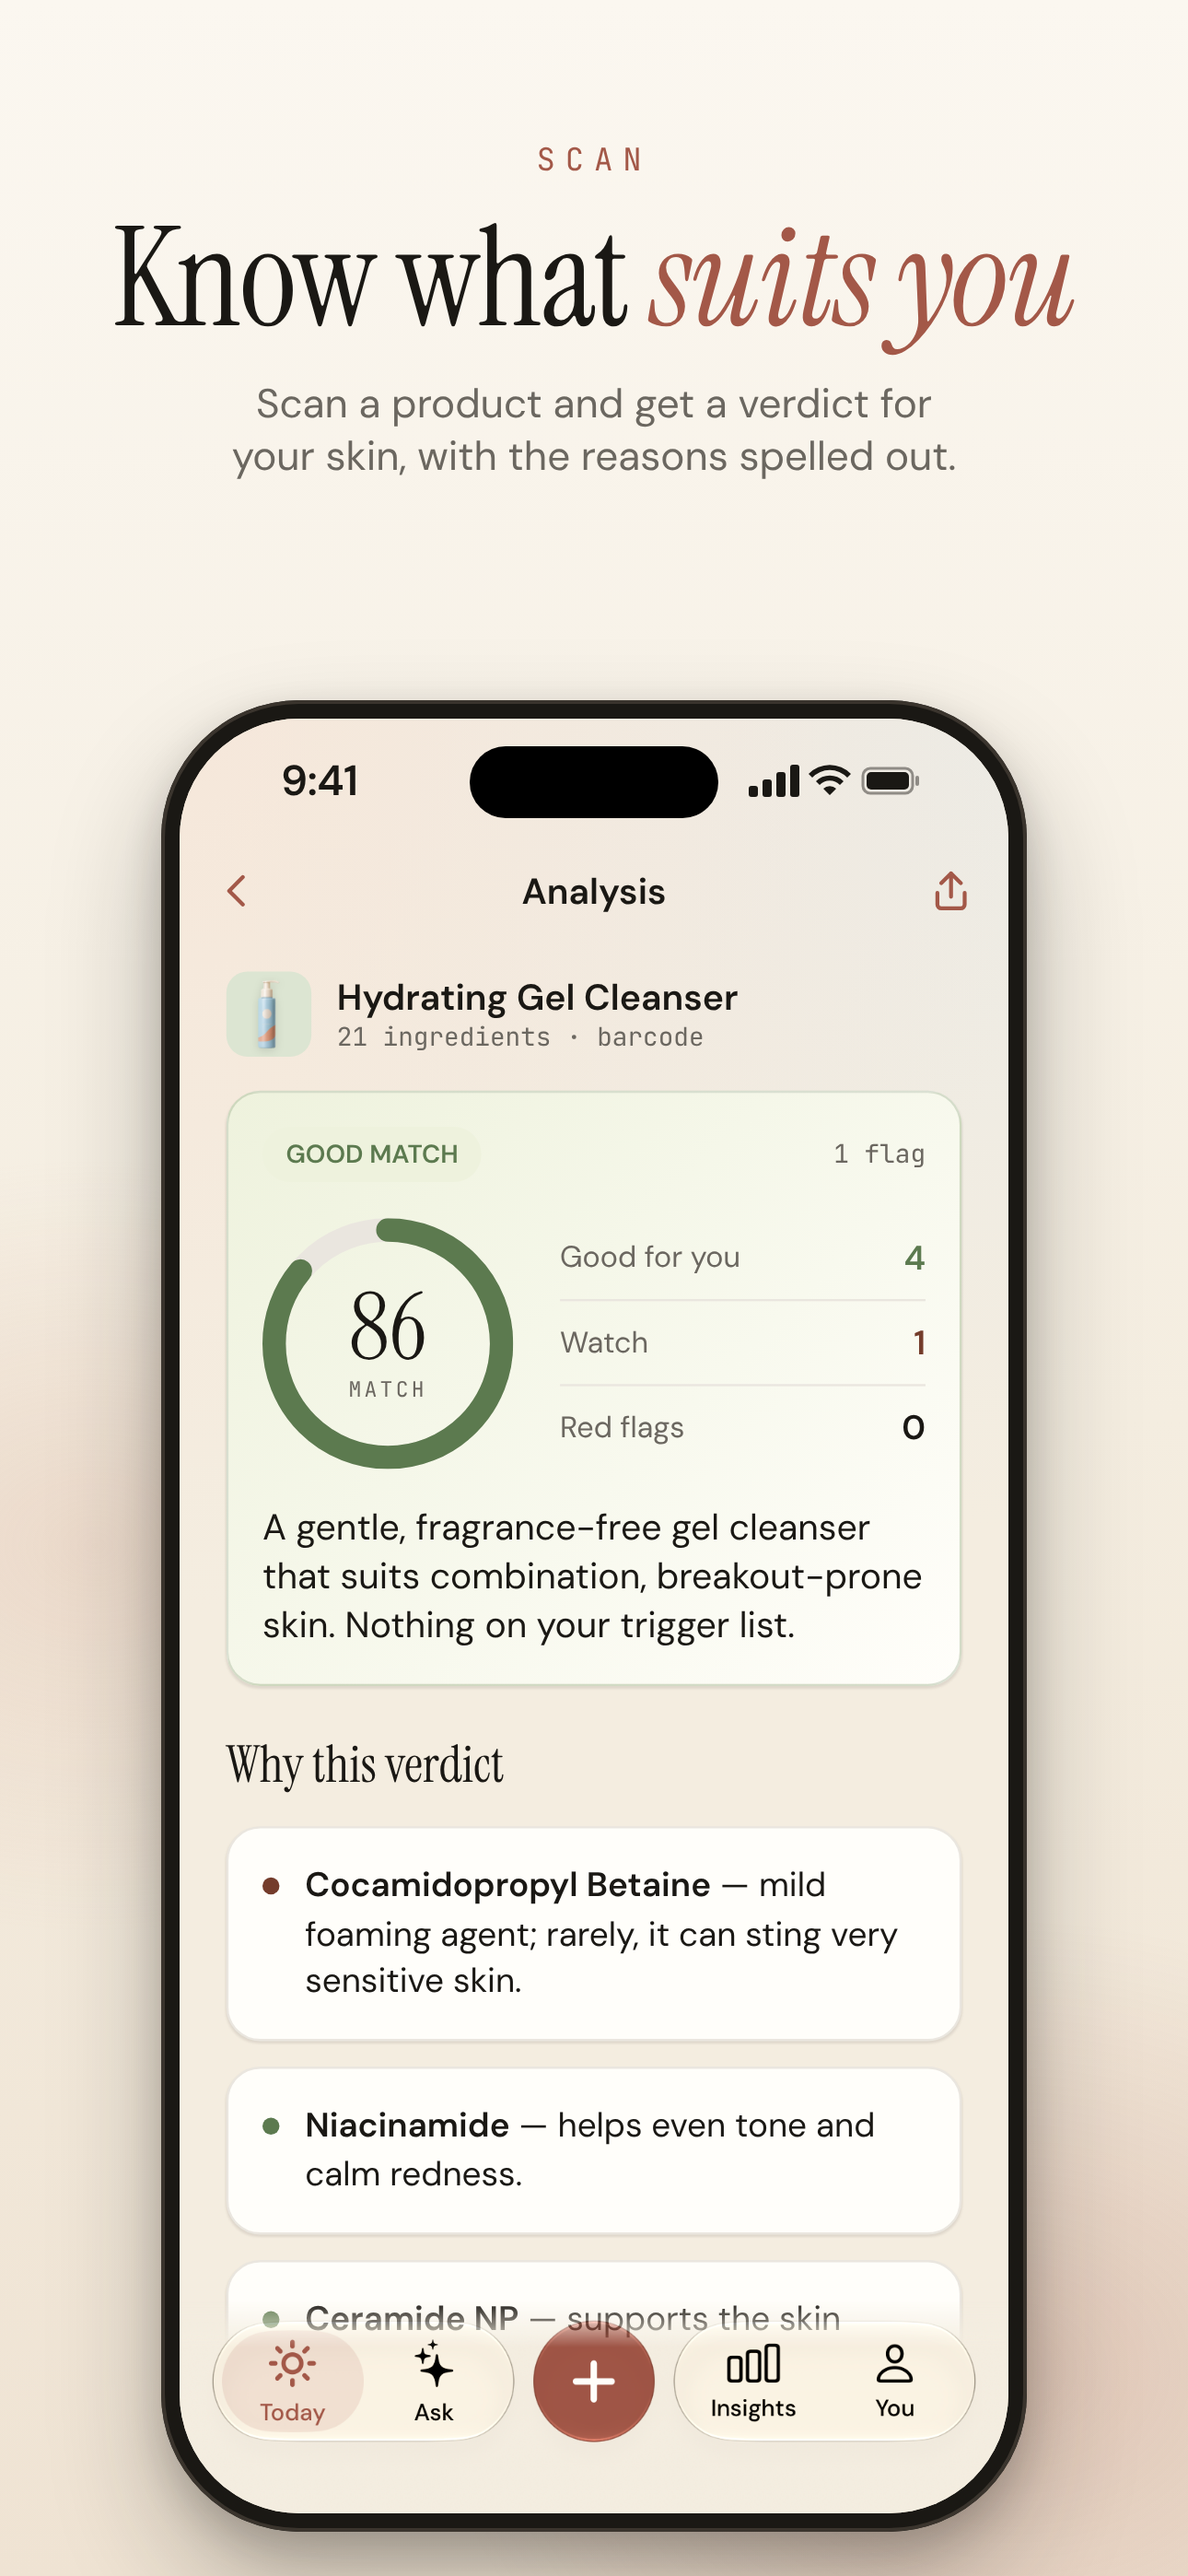
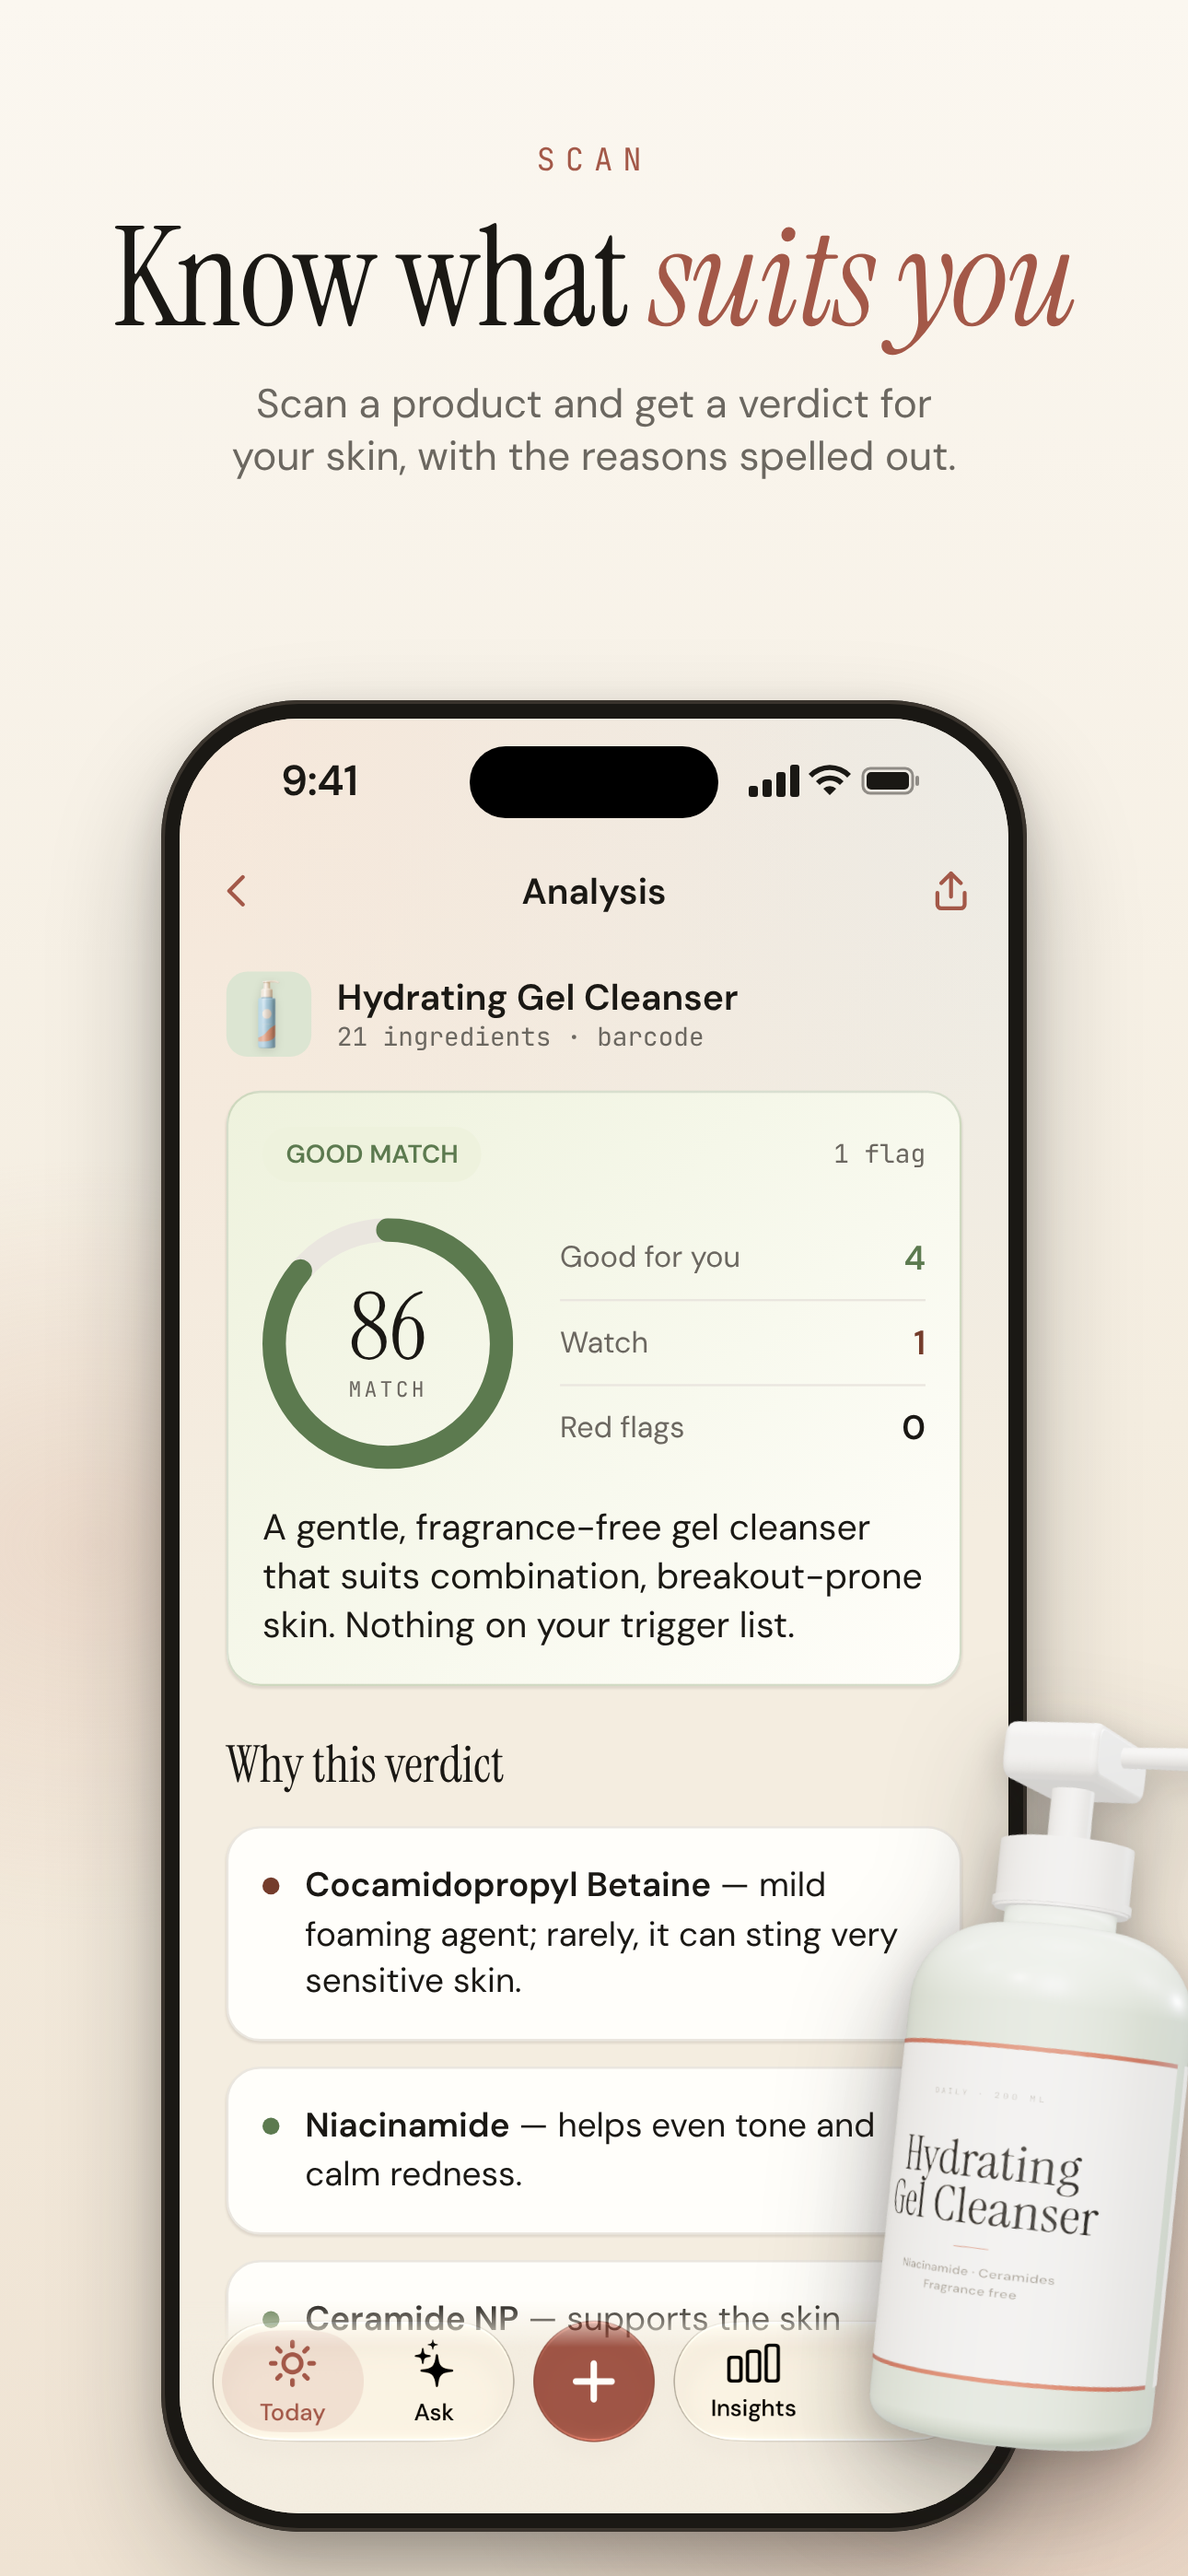
App Store slides: add a 3D product bottle
3d/bottle.html builds a generic pump bottle in three.js (lathe body,
pump head, canvas-texture labels: front label, back INCI + barcode for
the same 3 606000 537400 the scanner sheet shows) and render.py renders
front/back to transparent PNGs when three.js is linked at 3d/vendor
(gitignored); otherwise the committed PNGs are used.

Scan slide: the barcode side fills the paused camera behind the real
scanner chrome. Verdict slide: the front view floats over the phone edge.

Claude-Session: https://claude.ai/code/session_01FBeu7yZ3oQacgpcStYWEdD

Changed region(s): [[0.6822, 0.6534, 1.0, 0.9957]]

diff --git a/marketing/app-store/3d/bottle.html b/marketing/app-store/3d/bottle.html
@@ -1,0 +1,161 @@
+<!doctype html>
+<html lang="en">
+<head>
+<meta charset="utf-8">
+<title>Skintel bottle render</title>
+<!--
+  A generic pump bottle (no real brand) rendered with three.js to a transparent PNG.
+  bottle.html?view=front → label side, ?view=back → barcode side. render.py screenshots it.
+  three.js is not committed: render.py links vendor/ to an `npm i three@0.170.0` install.
+-->
+<style>
+  @font-face { font-family: "Instrument Serif"; src: url("../../../ios/Skintel/Skintel/Resources/Fonts/InstrumentSerif-Regular.ttf"); }
+  @font-face { font-family: "DM Sans"; font-weight: 600; src: url("../../../ios/Skintel/Skintel/Resources/Fonts/DMSans-SemiBold.ttf"); }
+  @font-face { font-family: "JetBrains Mono"; src: url("../../../ios/Skintel/Skintel/Resources/Fonts/JetBrainsMono-Regular.ttf"); }
+  html, body { margin: 0; background: transparent; overflow: hidden; }
+  canvas { display: block; }
+</style>
+<script type="importmap">
+  { "imports": { "three": "./vendor/build/three.module.js", "three/addons/": "./vendor/examples/jsm/" } }
+</script>
+</head>
+<body>
+<script type="module">
+import * as THREE from "three";
+import { RoomEnvironment } from "three/addons/environments/RoomEnvironment.js";
+
+const q = new URLSearchParams(location.search);
+const view = q.get("view") || "front";
+const W = +(q.get("w") || 900), H = +(q.get("h") || 1400);
+
+await Promise.all([
+  document.fonts.load('80px "Instrument Serif"'),
+  document.fonts.load('600 40px "DM Sans"'),
+  document.fonts.load('30px "JetBrains Mono"'),
+]);
+
+const renderer = new THREE.WebGLRenderer({ antialias: true, alpha: true, preserveDrawingBuffer: true });
+renderer.setSize(W, H);
+renderer.setClearColor(0x000000, 0);
+renderer.toneMapping = THREE.ACESFilmicToneMapping;
+renderer.toneMappingExposure = 1.05;
+renderer.outputColorSpace = THREE.SRGBColorSpace;
+document.body.appendChild(renderer.domElement);
+
+const scene = new THREE.Scene();
+const pmrem = new THREE.PMREMGenerator(renderer);
+scene.environment = pmrem.fromScene(new RoomEnvironment(), 0.04).texture;
+
+const camera = new THREE.PerspectiveCamera(24, W / H, 0.1, 100);
+camera.position.set(0, 0.35, 15.5);
+camera.lookAt(0, 0.1, 0);
+
+// Warm key from the upper left, cool rim from behind right: matches the cream/clay page.
+const key = new THREE.DirectionalLight(0xfff1e2, 2.2); key.position.set(-4, 5, 6); scene.add(key);
+const rim = new THREE.DirectionalLight(0xe4ecf0, 1.6); rim.position.set(5, 2, -4); scene.add(rim);
+scene.add(new THREE.AmbientLight(0xffffff, 0.25));
+
+const bottle = new THREE.Group();
+scene.add(bottle);
+
+// ---- Body: lathe profile with a soft shoulder and rounded base (units ≈ cm/2).
+const R = 1.05, BODY_H = 3.6, BASE_Y = -2.2;
+const pts = [];
+pts.push(new THREE.Vector2(0, BASE_Y));
+for (let i = 0; i <= 8; i++) { // rounded base corner
+  const a = -Math.PI / 2 + (i / 8) * (Math.PI / 2);
+  pts.push(new THREE.Vector2(R - 0.18 + Math.cos(a) * 0.18, BASE_Y + 0.18 + Math.sin(a) * 0.18));
+}
+pts.push(new THREE.Vector2(R, BASE_Y + BODY_H - 0.5));
+for (let i = 1; i <= 14; i++) { // shoulder
+  const t = i / 14;
+  const r = R - (R - 0.42) * (1 - Math.cos(t * Math.PI / 2));
+  pts.push(new THREE.Vector2(r, BASE_Y + BODY_H - 0.5 + Math.sin(t * Math.PI / 2) * 0.62));
+}
+pts.push(new THREE.Vector2(0.42, BASE_Y + BODY_H + 0.25));
+pts.push(new THREE.Vector2(0, BASE_Y + BODY_H + 0.25));
+const bodyMat = new THREE.MeshPhysicalMaterial({
+  color: 0xbfd1b4, roughness: 0.42, metalness: 0, clearcoat: 0.6, clearcoatRoughness: 0.25, sheen: 0.4, sheenColor: 0xffffff,
+});
+bottle.add(new THREE.Mesh(new THREE.LatheGeometry(pts, 128), bodyMat));
+
+// ---- Collar, pump stem and head (soft-touch cream plastic).
+const capMat = new THREE.MeshPhysicalMaterial({ color: 0xf7f2ea, roughness: 0.32, clearcoat: 0.4, clearcoatRoughness: 0.3 });
+const topY = BASE_Y + BODY_H + 0.25;
+const collar = new THREE.Mesh(new THREE.CylinderGeometry(0.5, 0.5, 0.5, 96), capMat);
+collar.position.y = topY + 0.25; bottle.add(collar);
+const ribs = new THREE.Mesh(new THREE.CylinderGeometry(0.52, 0.52, 0.06, 96), capMat);
+ribs.position.y = topY + 0.05; bottle.add(ribs);
+const stem = new THREE.Mesh(new THREE.CylinderGeometry(0.16, 0.16, 0.55, 48), capMat);
+stem.position.y = topY + 0.75; bottle.add(stem);
+const headShape = new THREE.Shape();
+headShape.moveTo(-0.42, -0.16); headShape.lineTo(0.42, -0.16); headShape.quadraticCurveTo(0.5, -0.16, 0.5, -0.06);
+headShape.lineTo(0.5, 0.08); headShape.quadraticCurveTo(0.5, 0.16, 0.42, 0.16);
+headShape.lineTo(-0.42, 0.16); headShape.quadraticCurveTo(-0.5, 0.16, -0.5, 0.06); headShape.lineTo(-0.5, -0.06);
+headShape.quadraticCurveTo(-0.5, -0.16, -0.42, -0.16);
+const head = new THREE.Mesh(new THREE.ExtrudeGeometry(headShape, { depth: 0.62, bevelEnabled: true, bevelThickness: 0.06, bevelSize: 0.05, bevelSegments: 6, curveSegments: 16 }), capMat);
+head.rotation.y = Math.PI / 2; head.position.set(-0.31, topY + 1.12, 0); bottle.add(head);
+const nozzle = new THREE.Mesh(new THREE.CylinderGeometry(0.075, 0.09, 0.95, 32), capMat);
+nozzle.rotation.z = Math.PI / 2; nozzle.position.set(0.85, topY + 1.17, 0); bottle.add(nozzle);
+
+// ---- Labels: canvas textures wrapped on a thin sleeve just outside the body.
+function labelTexture(draw) {
+  const c = document.createElement("canvas"); c.width = 1400; c.height = 1300;
+  const g = c.getContext("2d"); draw(g, c.width, c.height);
+  const t = new THREE.CanvasTexture(c); t.colorSpace = THREE.SRGBColorSpace; t.anisotropy = 8; return t;
+}
+const front = labelTexture((g, w, h) => {
+  g.fillStyle = "#FBF7F0"; g.fillRect(0, 0, w, h);
+  g.fillStyle = "#A35848"; g.fillRect(0, 0, w, 18); g.fillRect(0, h - 18, w, 18);
+  g.textAlign = "center"; g.fillStyle = "#6B6760";
+  g.font = '30px "JetBrains Mono"'; g.letterSpacing = "10px"; g.fillText("DAILY · 200 ML", w / 2, 210);
+  g.letterSpacing = "0px"; g.fillStyle = "#1A1814";
+  g.font = '190px "Instrument Serif"'; g.fillText("Hydrating", w / 2, 520); g.fillText("Gel Cleanser", w / 2, 700);
+  g.fillStyle = "#A35848"; g.fillRect(w / 2 - 60, 790, 120, 4);
+  g.fillStyle = "#6B6760"; g.font = '600 46px "DM Sans"';
+  g.fillText("Niacinamide · Ceramides", w / 2, 900); g.fillText("Fragrance free", w / 2, 970);
+});
+const back = labelTexture((g, w, h) => {
+  g.fillStyle = "#FBF7F0"; g.fillRect(0, 0, w, h);
+  g.fillStyle = "#6B6760"; g.textAlign = "left"; g.font = '30px "JetBrains Mono"';
+  const inci = ["INGREDIENTS: AQUA, GLYCERIN,", "COCAMIDOPROPYL BETAINE, NIACINAMIDE,", "CERAMIDE NP, SODIUM HYALURONATE,", "PANTHENOL, ALLANTOIN, CITRIC ACID…"];
+  inci.forEach((l, i) => g.fillText(l, 330, 190 + i * 52));
+  // EAN-13 style bars for 3606000537400 (decorative; proportions of a real symbol).
+  const code = "3606000537400", bx = 360, by = 520, bw = 680, bh = 420;
+  g.fillStyle = "#FFFFFF"; g.fillRect(bx - 50, by - 40, bw + 100, bh + 150);
+  g.fillStyle = "#1A1814";
+  let x = bx; const unit = bw / 95;
+  const pattern = "101" + [...code.slice(1, 7)].map(d => ["0001101","0011001","0010011","0111101","0100011","0110001","0101111","0111011","0110111","0001011"][+d]).join("")
+    + "01010" + [...code.slice(7)].map(d => ["1110010","1100110","1101100","1000010","1011100","1001110","1010000","1000100","1001000","1110100"][+d]).join("") + "101";
+  [...pattern].forEach((b, i) => {
+    const guard = i < 3 || (i >= 45 && i < 50) || i >= 92;
+    if (b === "1") g.fillRect(x, by, unit + 0.4, bh + (guard ? 30 : 0));
+    x += unit;
+  });
+  g.textAlign = "center"; g.font = '44px "JetBrains Mono"';
+  g.fillText("3   606000   537400", w / 2, by + bh + 85);
+});
+function sleeve(tex, center) {
+  const arc = Math.PI * 0.95, y0 = BASE_Y + 0.45, hgt = 2.35;
+  const geo = new THREE.CylinderGeometry(R + 0.006, R + 0.006, hgt, 128, 1, true, center - arc / 2, arc);
+  const m = new THREE.Mesh(geo, new THREE.MeshPhysicalMaterial({ map: tex, roughness: 0.55, clearcoat: 0.3, clearcoatRoughness: 0.4 }));
+  m.position.y = y0 + hgt / 2; return m;
+}
+// Cylinder theta 0 faces +z rotated; π/2 offset puts the sleeve centre toward the camera.
+bottle.add(sleeve(front, -Math.PI / 2 + Math.PI / 2));
+bottle.add(sleeve(back, Math.PI));
+
+if (view === "back") {
+  bottle.rotation.y = Math.PI;      // barcode toward the camera
+  bottle.rotation.z = -0.04;
+  camera.position.set(0.0, 0.2, 15.5); camera.lookAt(0, 0.1, 0);
+} else {
+  bottle.rotation.y = -0.38;        // three-quarter turn so the pump reads
+  bottle.rotation.z = 0.06;
+}
+
+renderer.render(scene, camera);
+document.title = "ready";
+</script>
+</body>
+</html>

diff --git a/marketing/app-store/slides.html b/marketing/app-store/slides.html
@@ -62,6 +62,7 @@
   body.dark .phone { box-shadow: 0 0 0 4px #6B6158 inset, 0 0 0 2px rgba(244, 237, 224, .12), 0 60px 120px rgba(0, 0, 0, .5); }
   .screen { position: relative; width: 900px; height: 1948px; border-radius: 130px; overflow: hidden; background: var(--bg); }
   .screen > img { display: block; width: 100%; height: 100%; }
+  .deco { position: absolute; z-index: 10; pointer-events: none; filter: drop-shadow(0 50px 60px rgba(26,24,20,.30)) drop-shadow(0 12px 18px rgba(26,24,20,.18)); }
   .island { position: absolute; top: 30px; left: 50%; transform: translateX(-50%); width: 270px; height: 78px; border-radius: 40px; background: #000; z-index: 5; }
   .status { position: absolute; top: 0; left: 0; right: 0; height: 120px; display: flex; align-items: center; justify-content: space-between; padding: 14px 92px 0 110px; z-index: 5; color: var(--ink); }
   .status .time { font-weight: 600; font-size: 46px; letter-spacing: -.01em; }
@@ -346,8 +347,15 @@
 <!-- ScannerHostView + FoundSheet .analyzing: camera paused behind, 360 pt cream sheet with header, progress card, bar. -->
 <template id="analyzing">
   <div class="mock" style="background:#0B0A08">
-    <img src="_clean/04-scan.png" style="position:absolute;inset:0;width:390px;height:844px">
-    <div style="position:absolute;inset:0;background:rgba(0,0,0,.28)"></div>
+    <!-- Camera feed: a blurred warm room, the bottle's barcode side filling the viewfinder. -->
+    <div style="position:absolute;inset:0;background:
+      radial-gradient(260px 220px at 70% 22%, rgba(214,180,150,.55), transparent 70%),
+      radial-gradient(300px 260px at 15% 70%, rgba(120,96,78,.6), transparent 70%),
+      linear-gradient(180deg,#3B332C,#1E1915);filter:blur(6px)"></div>
+    <img src="3d/bottle-back.png" style="position:absolute;left:-36px;top:-80px;width:455px;height:708px;filter:drop-shadow(0 30px 40px rgba(0,0,0,.45))">
+    <!-- The real scanner chrome (brackets, buttons, scan line) from the build-47 capture; screen drops its black. -->
+    <img src="_clean/04-scan.png" style="position:absolute;inset:0;width:390px;height:844px;mix-blend-mode:screen">
+    <div style="position:absolute;inset:0;background:radial-gradient(420px 520px at 50% 45%, transparent 55%, rgba(0,0,0,.3)), rgba(0,0,0,.08)"></div>
     <div style="position:absolute;left:0;right:0;bottom:0;height:360px;background:var(--cream);border-radius:38px 38px 0 0;padding:22px 22px 16px">
       <i style="position:absolute;top:6px;left:50%;transform:translateX(-50%);width:36px;height:5px;border-radius:3px;background:#CFC9C0"></i>
       <div class="col" style="gap:16px">
@@ -377,7 +385,7 @@
 <script>
   // Headlines describe what the screen shows. Mock data is example data, the same kind the app shows a real user.
   const slides = [
-    { mock: "verdict",  eyebrow: "Scan",      title: "Know what <em>suits you</em>",   sub: "Scan a product and get a verdict for<br>your skin, with the reasons spelled out." },
+    { mock: "verdict", deco: { src: "3d/bottle-front.png", style: "right:-150px;top:1820px;width:620px;transform:rotate(9deg)" }, eyebrow: "Scan",      title: "Know what <em>suits you</em>",   sub: "Scan a product and get a verdict for<br>your skin, with the reasons spelled out." },
     { mock: "triggers", eyebrow: "Triggers",  title: "Find your <em>triggers</em>",    sub: "Mark what broke you out. Skintel finds<br>the ingredient those products share." },
     { mock: "today",    eyebrow: "Routine",   title: "Your routine, <em>in order</em>", sub: "Morning and night, step by step.<br>Tick it off as you go." },
     { mock: "ask",      eyebrow: "Ask Skintel", title: "Ask about <em>your</em> shelf", sub: "Answers use your products, your routine<br>and how your skin has been." },
@@ -398,6 +406,7 @@
     img.src = `_clean/${s.shot}.png`;
     screen.prepend(img);
   }
+  if (s.deco) document.body.insertAdjacentHTML("beforeend", `<img class="deco" src="${s.deco.src}" style="${s.deco.style}">`);
   if (s.dark) document.body.classList.add("dark");
   if (s.noStatus) document.getElementById("status").remove();
 </script>

diff --git a/marketing/app-store/render.py b/marketing/app-store/render.py
@@ -25,6 +25,8 @@ CROPS = [
     ("composer-ask", "01-ask", 1790 / 2532),
 ]
 STATUS_ROWS = 0.052  # top 5.2% of an iPhone capture holds the status bar
+BOTTLE_DIR = HERE / "3d"
+HEADLESS_SHELL = "/opt/pw-browsers/chromium_headless_shell-1194/chrome-linux/headless_shell"
 CHROME_CANDIDATES = [
     "/opt/pw-browsers/chromium-1194/chrome-linux/chrome",
     shutil.which("chromium") or "",
@@ -43,12 +45,29 @@ def clean(name: str) -> None:
     im.save(CLEAN / f"{name}.png")
 
 
+def render_bottles() -> None:
+    """Re-render 3d/bottle-{front,back}.png when three.js is linked at 3d/vendor
+    (`npm i three@0.170.0`, then link vendor -> node_modules/three). Otherwise the
+    committed PNGs are used as they are."""
+    if not (BOTTLE_DIR / "vendor" / "build" / "three.module.js").exists() or not pathlib.Path(HEADLESS_SHELL).exists():
+        print("3d/vendor missing: using committed bottle PNGs")
+        return
+    for view in ("front", "back"):
+        subprocess.run([
+            HEADLESS_SHELL, "--no-sandbox", "--hide-scrollbars", "--allow-file-access-from-files",
+            "--use-angle=swiftshader", "--enable-unsafe-swiftshader", "--default-background-color=00000000",
+            "--window-size=900,1400", "--virtual-time-budget=8000",
+            f"--screenshot={BOTTLE_DIR / f'bottle-{view}.png'}", f"file://{BOTTLE_DIR / 'bottle.html'}?view={view}",
+        ], check=True, capture_output=True)
+
+
 def main() -> None:
     chrome = next((c for c in CHROME_CANDIDATES if c and pathlib.Path(c).exists()), None)
     if not chrome:
         sys.exit("No Chromium found; set CHROME_CANDIDATES")
     CLEAN.mkdir(exist_ok=True)
     OUT.mkdir(exist_ok=True)
+    render_bottles()
     for name in ["04-scan"]:
         clean(name)
     for out, capture, top in CROPS:
